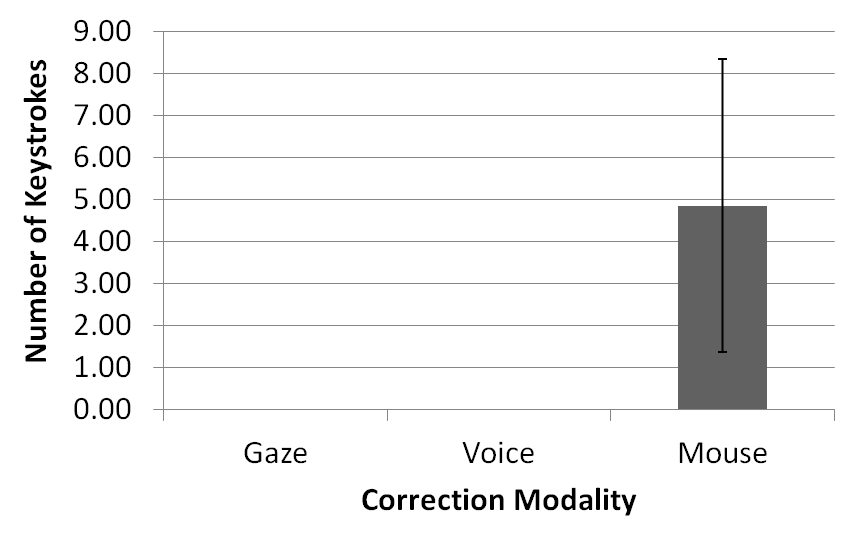
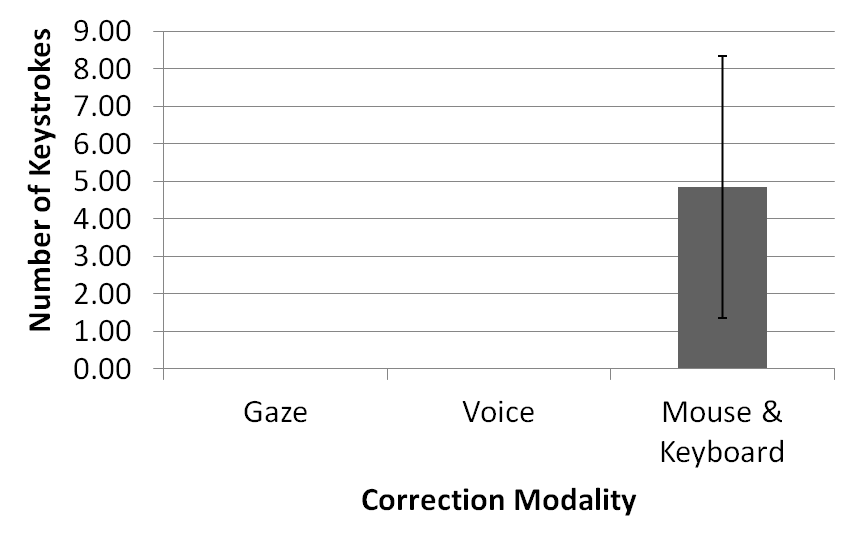
a

diff --git a/document.tex b/document.tex
@@ -27,32 +27,45 @@
 \maketitle
 
 \section{Abstract}
-This is the abstract
+
+In this work, we present an innovative form of correcting misrecognized words during a speech recognition task by using
+gaze tracking technology. 
+
 
 \section{Introduction}
 In computer science speech recognition refers to the computational translation of spoken words into text.
-
 Using speech to create or edit documents and e-mail offers the potential to be a faster a more natural way to interact
 with computers as well as a hands-free modality with obvious positive implications for handicapped users or
 scenarios were computer users have their hands engaged in other tasks (for example surgeons in the operating room).
 
 Although there has been a significant increase in the accuracy performance of speech recognition software, error
-rates still make the technology cumbersome to use for everyday interaction  and it still requires a relatively long
-learning curve to master it.
+rates still make the technology cumbersome to use for everyday interaction and functional speech recognition still
+requires a relatively long learning curve on the part of the user to properly master it. Still, misrecognized words
+occur often during speech recognition tasks even for advanced users. 
 
-The correction of errors can be carried out manually with a traditional keyboard and mouse to select and retype the
-misrecognized word. This modality can be perfectly valid for some scenarios, but this interaction modalities is not
-hands-free anymore.  Correcting misrecognized with voice is an alternative that while remaining hands-free is extremely
-error-prone and frustrating for users, especially when trying to correct ``difficult'' words or when being used by users
-with an accent.
+The correction of speech recognition errors or misrecognized words can be carried out manually with a traditional
+keyboard and mouse to select and retype the correct word. The usage  of the keyboard and mouse to correct misrecognized
+words  during the speech recognition is probably  the most widely used  method for the task. This modality can be
+perfectly valid for some scenarios, but this interaction modalities is not trully hands-free anymore.
 
+
+The usage of voice for correction of misrecognized towards  during the speech recognition maintains the notion of truly
+hands-free input to the computer. In practice however, this modality can be very frustrating for the user since
+``certain" difficult words are extremely difficult to be properly recognized by speech recognition engines. Hence, this
+correction modality is extremely error-prone and frustrating for users. Users with a foreign accent also struggle with
+this particular form of interaction. Furthermore repeating several times the same word makes the vocal cords go through
+the same pattern of folding and vibrations repeatedly which has been shown to lead to voice strain \cite{}.
+
+ 
 In this work, we propose the enhancement of speech recognition software with gaze tracking technology to speed up the
-correction of misrecognized words and to make speech recognition truly hands-free.
+correction of misrecognized words and to make speech recognition truly hands-free. A gaze tracking system tracks the
+point of regard (PoR) of the user on the screen by monitoring the users pupils while sitting in front of a computer
+\cite{Rozado2012a}. In this modality, the user is required to simply gaze at the misrecognized word and then simply
+select  the correct alternate  word from an emerging panel for pronounced the word  again the correct option from the
+updated on just  by looking at it.
 
-A gaze tracking system tracks the point of regard (PoR) of the user on the screen by monitoring the users pupils while
-sitting in front of a computer \cite{Rozado2012a}.
 
-In the experimental part of his work, we compared three modalities of correcting misrecognized words during  a speech
+The experimental part of his work compares the three modalities of correcting misrecognized words during  a speech
 recognition task:
 \begin{itemize}
   \item usage of the traditional keyboard and mouse
@@ -61,6 +74,15 @@ recognition task:
 \end{itemize}
 
 
+
+%Matheus here you should include the review of the literature
+
+
+In summary, we present here a multimodal approach to HCI that combines speech recognition with gaze 
+interaction for correction of misrecognized words to create a truly hands-free paradigm of inputting text into a
+computer. Finally, we explore through a comprehensive user study how this multimodal paradigm compares to the 2
+traditional modalities to correct misrecognized words, using voice alone and using the mouse and the keyboard, in terms
+of completion task rate, accuracy rate.
 
 \section{Methodology}
 Methodology introduction
@@ -85,7 +107,7 @@ for the user. Infrared light improves image contrast and produces a reflection
 on the cornea, known as corneal reflection or glint. Eye features such as the
 corneal reflections and the center of the pupil/iris can be used to estimate the
 PoR. Figure \ref{screenGazeTracker} shows a screenshot of an eye being tracked
-by the open-source ITU Gaze Tracker \cite{lowcostitugazetracker}. In this case,
+by the open-source ITU Gaze Tracker \cite{lowcostitugazetracker,Rozado2012}. In this case,
 the center of the pupil and two corneal reflections are the features being
 tracked.
 
@@ -128,9 +150,9 @@ experimental trials required by each correction modality to reach the target sen
 
 Figure \ref{mouseDisplacement} shows the average displacement of the mouse during each experimental trial for each
 correction modality. Again, a Levene's test failed to find equal variance among experimental conditions. The ANOVA
-showed significant differences between groups,  $F=19.27$, $p=4.82\e{-07}$. A Posthoc Bonferroni-Holm test found
-significant differences between the gaze-mouse and voice-mouse modalities,  $p=4.95\e{-06}$,
-$p=3.8\e{-04}$ respectively but now between the gaze-voice modalities.
+showed significant differences between groups,  $F=25.06$, $p=2.0\e{-08}$. A Posthoc Bonferroni-Holm test found
+significant differences between the gaze-mouse and voice-mouse modalities,  $p=1.48\e{-05}$,
+$p=1.48\e{-05}$ respectively.
 
 
 \begin{figure}[ht]
@@ -194,7 +216,31 @@ sentence.}
 
 
 \section{Discussion}
-Bla bla
+The results of the user study showed that the gaze enhanced correction modality for multimodal speech recognition is not
+as fast as using the mouse and the keyboard for correcting misrecognized words. Yet, the gaze modality is
+significantly faster that using voice alone for correction and it is trully hand-free as opposed to the Mouse\&Keyboard
+modality that required the usage of the hands for correction misrecognized words.
+
+The amount of mouse movement displacement to achieve the target sentence was obviously non-existant for the gaze and
+voice correction modalities due to their true hands-free nature. The same can be say of the amount of keystrokes presses
+required for correction.
+
+In terms of the number of failures registered during the experimental trials to achieve the target sentence, the gaze
+modality was significantly better at reaching the target sentence that the voice modality but worse than the mouse \&
+keyboard modality. This was also evident in the DL distance between the target sentence and the achieved sentence during
+the experimental trials.
+
+In conclusion, the gaze modality for correction of recognized words is not as efficient in terms of accuracy and time to
+completion as the traditional mouse \& keyboard modality but it possesses the advantage of being truly hand-free with
+obvious  implications for handicapped computer users, users suffering from RSI syndrome and for scenarios where the
+usage of the hands is not possible (surgery room for instance). Moreover, the gaze modality significantly outperforms
+the other hand-free modality to correct misrecognized words, using voice, in all the variable being monitor in the user
+study. Furthermore, the gaze based correction modality also prevents the appearance of voice strain for the correction
+of misrecognized words since it prevents the  repetition of utterances of a certain word.
+
+The evidence from the results presented here suggest the advantages of this multimodal approach to HCI that complements
+speech recognition with gaze tracking and gaze interaction to create a truly hands-free multimodal interface that is
+faster and more accurate than using voice alone to correct misrecognized words.
 
 
 \bibliographystyle{plain}
